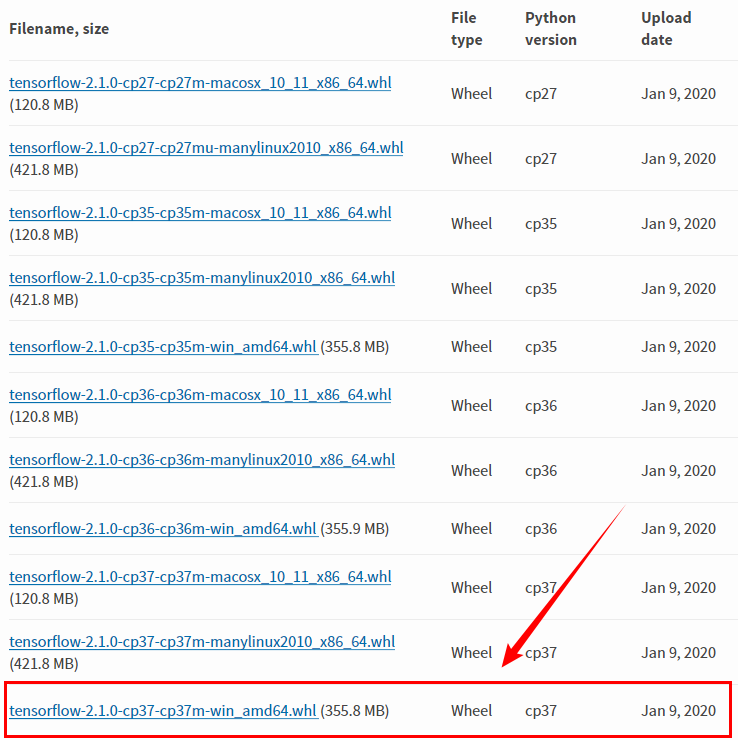
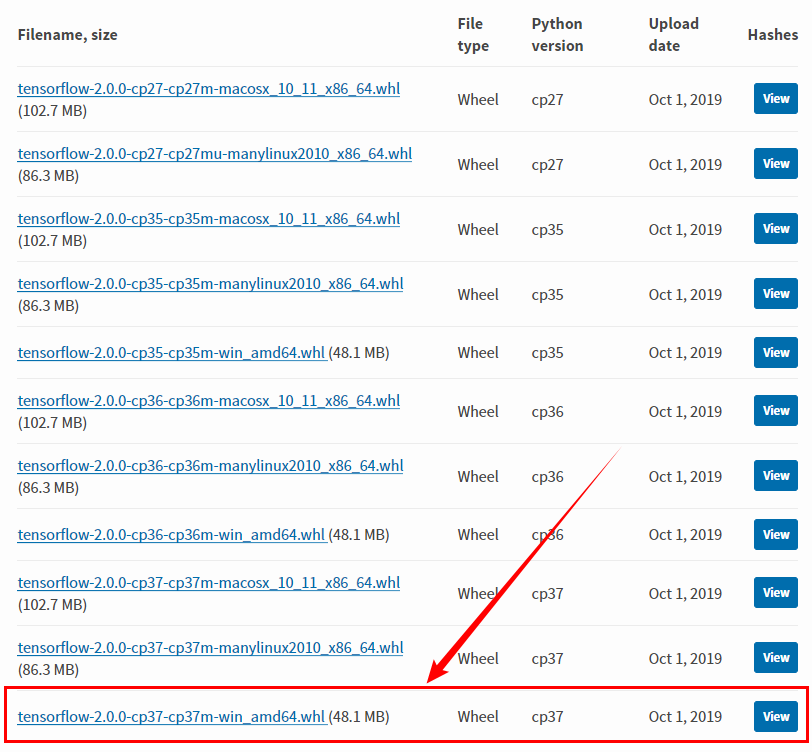
补充：版本问题

diff --git a/content/zh/tech/computer/install-tensorflow.md b/content/zh/tech/computer/install-tensorflow.md
@@ -1,6 +1,5 @@
 +++
 title = "Win10 和 Python 3.7 环境下安装 TensorFlow"
-description = ""
 date = "2020-03-07T00:03:29+08:00"
 tags = ["python","tensorflow"]
 +++
@@ -21,7 +20,7 @@ Anaconda 是一个开源的 Python 发行版本，请前往[官网](https://www.
 
 ## 安装 CUDA
 
-这里需要注意，你的计算机显卡必须是 NVIDIA 显卡才可以选择安装 CUDA，否则请跳过以下步骤直接安装 TensorFlow。在[官网](https://developer.nvidia.com/cuda-toolkit-archive)挑选你要安装的 CUDA 版本，这里我选择的是 CUDA 10.0 版本。不一定最新版本的最好，因为很有可能 TensorFlow 的版本并没有与最新版本的 CUDA 相对应。
+你的计算机显卡必须是 NVIDIA 显卡才可以选择安装 CUDA，否则请跳过以下步骤直接安装 TensorFlow。在[官网](https://developer.nvidia.com/cuda-toolkit-archive)挑选你要安装的 CUDA 版本。这里因为我安装的时间较早，安装的是 CUDA 10.0 版本，最新的 TensorFlow 2.1 对应的 CUDA 是 10.1 版本。但是要注意，不一定最新版本的最好，因为很有可能 TensorFlow 的版本并没有与最新版本的 CUDA 相对应。
 
 运行安装包的时候需要注意，需要选择「自定义」安装，在选择「自定义安装选项」的时候，建议只勾选安装 CUDA，Driver components 等组件你的计算机系统中应该原本就有，而且很有可能已有的版本与其要安装的版本不一致，要安装的版本比你已有的版本高，可以选择安装，如果比已有版本低，安装的话会出现错误。另外，CUDA 选项中的 Visual Studio Integration 也可选择不安装，因为我们并没有用到 Visual Studio。
 
@@ -42,7 +41,7 @@ Anaconda 是一个开源的 Python 发行版本，请前往[官网](https://www.
 3. D:\NVIDIA GPU Computing Toolkit\CUDA\v10.0\extras\CUPTI\libx64
 4. D:\NVIDIA GPU Computing Toolkit\CUDA\v10.0\cudnn\bin
 
-注意，这里添加的是你的 CUDA 所在目录中的部分文件夹，请检查是否存在该文件夹目录。我的 CUDA 安装在了 D 盘，请根据自己的实际情况进行修改。添加完成后，建议按照以上的顺序将这四个环境变量排序至最顶层。
+注意，这里添加的是你的 CUDA 所在目录中的部分文件夹，请检查是否存在该文件夹目录以及版本号是否正确。我的 CUDA 版本为 10.0 且安装在了 D 盘，请根据自己的实际情况进行修改。添加完成后，建议按照以上的顺序将这四个环境变量排序至最顶层。
 
 ![add-cuda-path.png](/images/add-cuda-path.png)
 
@@ -62,7 +61,7 @@ $ pip install tensorflow
 
 对于第一个问题，可以考虑换一个国内的镜像源进行下载，对于第二个问题，我认为最好的解决方法就是挑选对应版本的安装包，将安装包下载到本地，再在本地进行安装。
 
-首先进入[下载网站](https://pypi.org/project/tensorflow/#files)，选择 Python 3.7、Window 版本的安装包进行下载。
+首先进入[下载网站](https://pypi.org/project/tensorflow/#files)，选择 Python 3.7、Window 版本的安装包进行下载。注意版本号要和 CUDA 相对应。TensorFlow 2.0.0 对应 CUDA 10.0，TensorFlow 2.1.0 对应 CUDA 10.1。
 
 ![download-tensorflow.png](/images/download-tensorflow.png)
 
@@ -74,13 +73,13 @@ $ pip install filename
 
 其中，`filename` 为安装包的名字。
 
-安装完成后，在终端打开 Python，可以输入下列代码，如果运行成功则安装成功。
+安装完成后，在终端打开 Python，可以输入下列代码，检查 TensorFlow 的版本，如果运行顺利则安装成功。
 
 ```python
 >>> import tensorflow as tf
 >>> tf.__version__
 
-'2.1.0'
+'2.0.0'
 ```
 
-如果在运行代码的时候出现报错，提示缺失某些 `dll` 文件，可能是因为安装的 CUDA 版本和 TensorFlow 版本不对应。可以进入 [DLL-FILES](https://www.dll-files.com/)，查找缺失的文件，下载并放置在 `~/NVIDIA GPU Computing Toolkit/CUDA/v10.0/bin` 文件夹下。如果在该网站并没有找到缺失的文件，在 `bin` 文件夹下会有同名不同版本号的同一文件，修改该文件名与报错中出现的文件名一致即可，注意备份修改前的文件。
+如果在运行代码的时候出现报错，提示缺失某些 `dll` 文件，可能是因为安装的 CUDA 版本和 TensorFlow 版本不对应。可以进入 [DLL-FILES](https://www.dll-files.com/)，查找缺失的文件，下载并放置在 `~/NVIDIA GPU Computing Toolkit/CUDA/v10.0/bin` 文件夹下。如果在该网站并没有找到缺失的文件，在 `bin` 文件夹下会有同名不同版本号的同一文件，修改该文件名与报错中出现的文件名一致即可，注意备份修改前的文件。如果依然会报错，那可能就需要寻找对应版本的 CUDA 和 TensorFlow 重新安装了。
